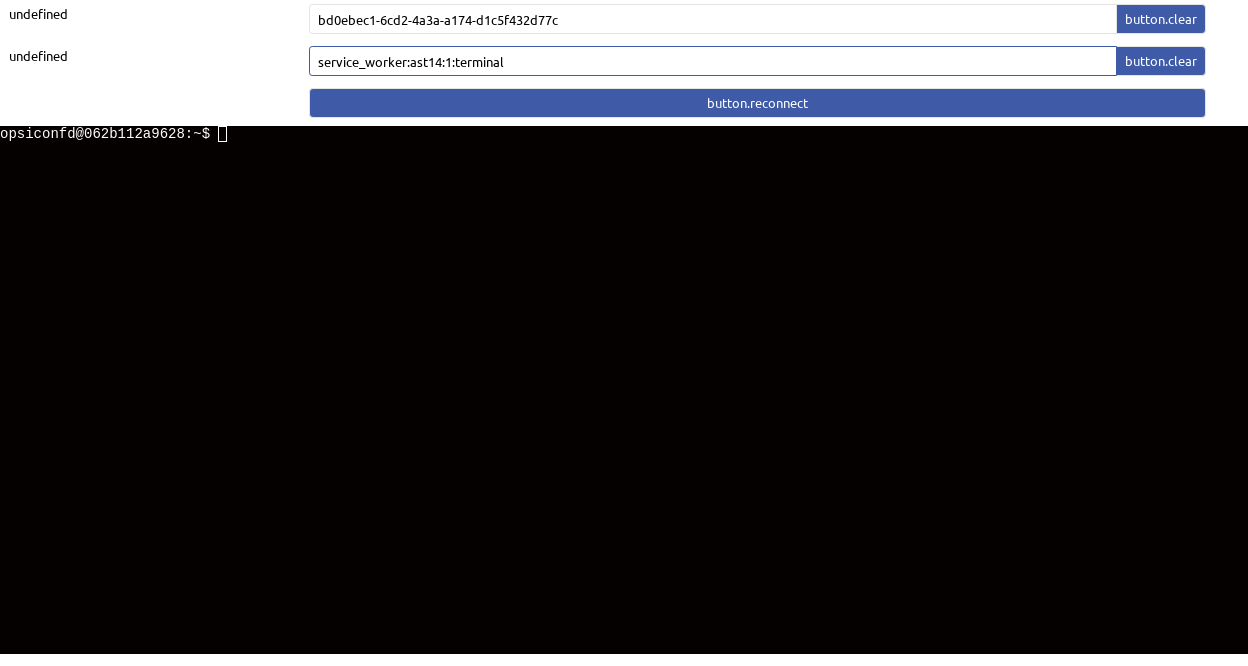
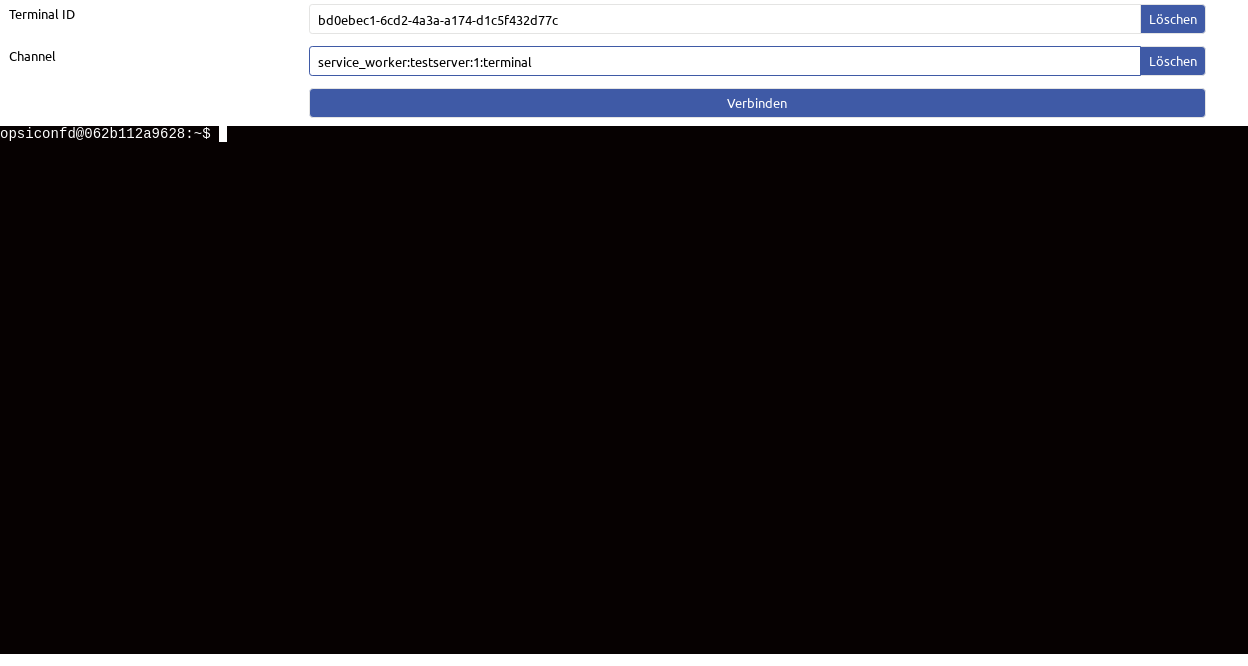
[fix] some screenshots
Former-commit-id: 947327885ccfc34538d879c261a347b954b5c360

diff --git a/opsiweb/screenshots4Docs/take_screenshots/opsisystem.test.screenshot.js b/opsiweb/screenshots4Docs/take_screenshots/opsisystem.test.screenshot.js
@@ -1,5 +1,6 @@
 const { test } = require('@playwright/test')
 const { callStoryId } = require('../../uib-components/.utils/playwright/pw-story-call')
+
 const en = require('../../uib-components/locale/en.json')
 const de = require('../../uib-components/locale/de.json')
 
@@ -17,26 +18,41 @@ test('opsi admin', async ({ page }) => {
 })
 
 test('opsi terminal', async ({ page }) => {
+  // await page.setViewportSize({ width: 940, height: 480 })
+  await (new Promise(resolve => setTimeout(resolve, 1000)))
+
   await callStoryId(page, 'view-v-admin-terminal', 'v-admin-terminal')
   // await page.click('.nav-tabs .nav-link:not(.active)')
   await (new Promise(resolve => setTimeout(resolve, 1000)))
+  // await page.setViewportSize({ width: 700, height: 510 })
   const component = await page.locator('[data-testid="VAdminTerminal"]')
   // wss://localhost:4447/messagebus/v1?
   const cursor = '<span class="xterm-cursor xterm-cursor-blink xterm-cursor-block"> </span>'
 
   const server = 'opsiconfd@062b112a9628:~$ '
+  let serverText = ''
+  for (const element of server) {
+    const s = '<span>' + element + '</span>'
+    serverText += s
+  }
   const id = 'bd0ebec1-6cd2-4a3a-a174-d1c5f432d77c'
-  const channel = 'service_worker:ast14:1:terminal'
+  const channel = 'service_worker:testserver:1:terminal'
   await page.locator('#terminalId').fill(id)
   await page.locator('#terminalChannel').fill(channel)
-  await page.evaluate((val) => { document.querySelector('.xterm-rows > div:first-child').innerHTML = val }, server + cursor)
+  await page.evaluate((val) => { document.querySelector('.xterm-rows > div:first-child').innerHTML = val }, serverText + cursor)
   // language specifics
-  await page.evaluate((val) => { document.querySelector('.lblTerminalId').innerHTML = val }, en['table.field.terminalId'])
-  await page.evaluate((val) => { document.querySelector('.lblTerminalChannel').innerHTML = val }, en['table.field.terminalChannel'])
-
+  await page.evaluate((val) => { document.querySelector('.lblTerminalId').innerHTML = val }, en['table.fields.terminalId'])
+  await page.evaluate((val) => { document.querySelector('.lblTerminalChannel').innerHTML = val }, en['table.fields.terminalChannel'])
+  await page.evaluate((val) => { document.querySelector('.buttonclear1').innerHTML = val }, en['button.clear'])
+  await page.evaluate((val) => { document.querySelector('.buttonclear2').innerHTML = val }, en['button.clear'])
+  await page.evaluate((val) => { document.querySelector('.buttonreconnect').innerHTML = val }, en['button.reconnect'])
   await component.screenshot({ path: './screenshots/en/opsi-webgui_opsisystem_terminal.png' })
-  await page.evaluate((val) => { document.querySelector('.lblTerminalId').innerHTML = val }, de['table.field.terminalId'])
-  await page.evaluate((val) => { document.querySelector('.lblTerminalChannel').innerHTML = val }, de['table.field.terminalChannel'])
+
+  await page.evaluate((val) => { document.querySelector('.lblTerminalId').innerHTML = val }, de['table.fields.terminalId'])
+  await page.evaluate((val) => { document.querySelector('.lblTerminalChannel').innerHTML = val }, de['table.fields.terminalChannel'])
+  await page.evaluate((val) => { document.querySelector('.buttonclear1').innerHTML = val }, de['button.clear'])
+  await page.evaluate((val) => { document.querySelector('.buttonclear2').innerHTML = val }, de['button.clear'])
+  await page.evaluate((val) => { document.querySelector('.buttonreconnect').innerHTML = val }, de['button.reconnect'])
   await component.screenshot({ path: './screenshots/de/opsi-webgui_opsisystem_terminal.png' })
 })
 

diff --git a/opsiweb/uib-components/components/view/VAdminTerminal.vue b/opsiweb/uib-components/components/view/VAdminTerminal.vue
@@ -5,7 +5,7 @@
         <b-input-group>
           <b-form-input id="terminalId" v-model="terminalId" size="sm" :aria-label="$t('table.fields.terminalId')" type="text" />
           <template #append>
-            <b-button variant="primary" size="sm" @click="() => {terminalId = ''}">
+            <b-button class="buttonclear1" variant="primary" size="sm" @click="() => {terminalId = ''}">
               {{ $t("button.clear") }}
             </b-button>
           </template>
@@ -17,7 +17,7 @@
         <b-input-group>
           <b-form-input id="terminalChannel" v-model="terminalChannel" size="sm" :aria-label="$t('table.fields.terminalChannel')" type="text" />
           <template #append>
-            <b-button variant="primary" size="sm" @click="() => {terminalChannel = terminalChannelDefault}">
+            <b-button class="buttonclear2" variant="primary" size="sm" @click="() => {terminalChannel = terminalChannelDefault}">
               {{ $t("button.clear") }}
             </b-button>
           </template>
@@ -26,7 +26,7 @@
     </GridGFormItem>
     <GridGFormItem variant="longvalue">
       <template #value>
-        <b-button variant="primary" size="sm" block @click="init">
+        <b-button class="buttonreconnect" variant="primary" size="sm" block @click="init">
           {{ $t('button.reconnect') }}
         </b-button>
       </template>
@@ -56,6 +56,8 @@ const cache = namespace('data-cache')
 
 @Component({ mixins: [MBus] })
 export default class VAdminTerminal extends Vue {
+  $t: any
+  $refs: any
   @Prop({ }) id!: string
   @Prop({ }) type!: string
   @Prop({ default: false }) 'asChild'!: string
@@ -142,7 +144,7 @@ export default class VAdminTerminal extends Vue {
     this.mbTerminal.loadAddon(webLinksAddon)
     this.mbTerminal.fitAddon = new FitAddon()
     this.mbTerminal.loadAddon(this.mbTerminal.fitAddon)
-    this.mbTerminal.open(this.$refs.terminalcontainer as any)
+    this.mbTerminal.open(this?.$refs?.terminalcontainer as any)
     this.mbTerminal.fitAddon.fit()
 
     this.wsTerminalOpen(this.terminalId, this.mbTerminal)
